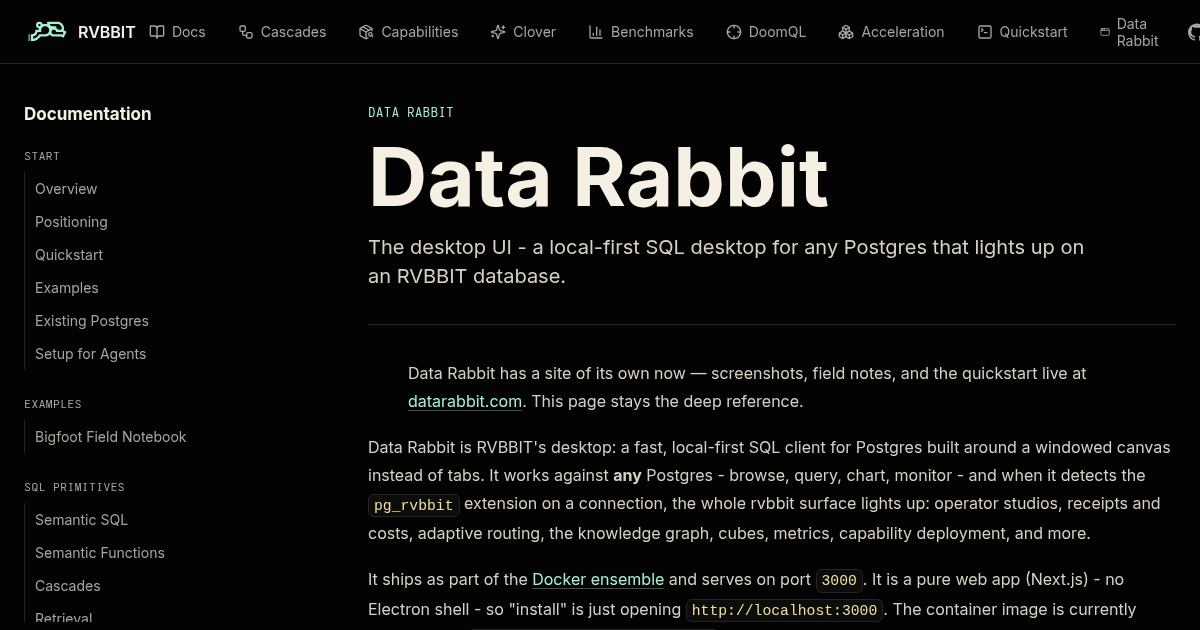
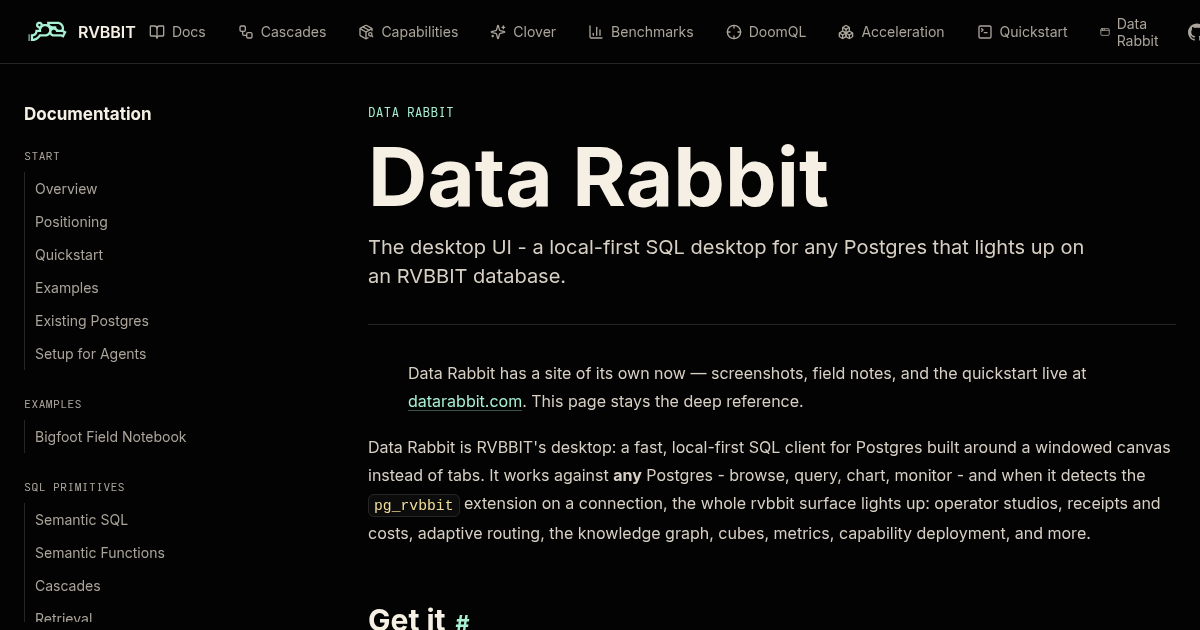
Data Rabbit page: native macOS download (signed + notarized DMG on /dist)

Changed region(s): [[0.3083, 0.9048, 0.9558, 1.0]]

diff --git a/content/docs/data-rabbit.md b/content/docs/data-rabbit.md
@@ -20,11 +20,37 @@ extension on a connection, the whole rvbbit surface lights up: operator
 studios, receipts and costs, adaptive routing, the knowledge graph, cubes,
 metrics, capability deployment, and more.
 
-It ships as part of the [Docker ensemble](/docs/quickstart) and serves on
-port `3000`. It is a pure web app (Next.js) - no Electron shell - so "install"
-is just opening `http://localhost:3000`. The container image is currently
-published as `ghcr.io/ryrobes/rvbbit-lens` (the project's earlier name; the
-image name follows the rename later).
+## Get it
+
+Three ways to run the same app:
+
+- **Native macOS app** (Apple silicon) — signed and notarized, no Docker
+  required:
+
+  ```
+  https://rvbbit.ai/dist/mac/DataRabbit-4.1.3-arm64.dmg
+  sha256: f5926145edb52b9648747e96cd117ef2b009c0d6850a897e9c1035afbf081552
+  ```
+
+  The `.app` bundles its own Node runtime and serves the desktop on a
+  stable private origin (`127.0.0.1:43129`), so scenes, saved views, and
+  assistant history survive relaunches. Connections and homebase state
+  live in `~/Library/Application Support/Data Rabbit/`. All you need is a
+  reachable Postgres; Docker is used only if you install capabilities
+  that launch containers. Requirements and architecture notes live in
+  the repo's `docs/MACOS.md`.
+
+- **The [Docker ensemble](/docs/quickstart)** — ships alongside the
+  warehouse and serves on port `3000`; "install" is opening
+  `http://localhost:3000`.
+
+- **Bare web app** — it is a Next.js app at heart; the container image is
+  published as `ghcr.io/ryrobes/rvbbit-lens` (the project's earlier name;
+  the image name follows the rename later).
+
+The macOS shell keeps Node fully isolated from the renderer and drives the
+same product actions as the in-canvas menu bar, so browser and `.app`
+behavior cannot drift.
 
 ![Data Rabbit - a desktop over any Postgres, lit up on an RVBBIT database: adaptive routing, model deploys, the operator canvas, the knowledge graph, and live receipts.](/shots/data-rabbit-desktop.png)
 
